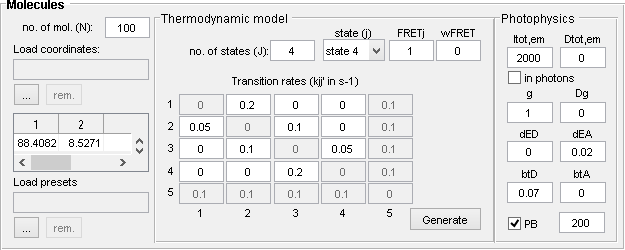
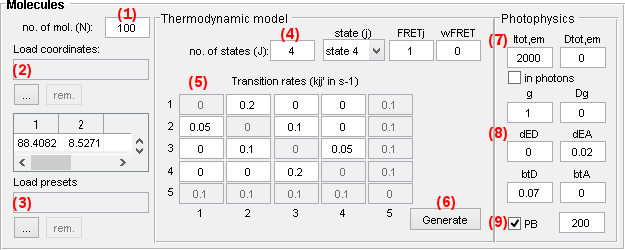
Update simulation panel molecules

diff --git a/docs/simulation/panels/panel-molecules.md b/docs/simulation/panels/panel-molecules.md
@@ -9,20 +9,38 @@ nav_order: 3
 # Molecules
 {: .no_toc }
 
-## Panel components
-{: .no_toc .text-delta }
+<a href="../../assets/images/sim-panel-molecules.png"><img src="../../assets/images/sim-panel-molecules.png" style="max-width:625px;" /></a>
 
-1. TOC
-{:toc}
+## (1) number of molecules (*N*)
 
-## Number of molecules (*N*)
 
-## Molecule coordinates
+
+## (2) Molecule coordinates
+
+<a href="../../assets/images/sim-panel-molecules-coordinates.png"><img src="../../assets/images/sim-panel-molecules-coordinates.png"  style="max-width:136px;" /></a>
 
 By default, molecule coordinates are generated randomly.
 
-## Pre-set parameters
+## (3) Pre-set parameters
 
-## Thermodynamic model
+<a href="../../assets/images/sim-panel-molecules-preset.png"><img src="../../assets/images/sim-panel-molecules-preset.png"  style="max-width:136px;" /></a>
 
-## Photophysics
+## (4) State configuration
+
+<a href="../../assets/images/sim-panel-molecules-state-configuration.png"><img src="../../assets/images/sim-panel-molecules-state-configuration.png"  style="max-width:291px;" /></a>
+
+## (5) Transition rates
+
+## (6) Generate data
+
+## (7) Donor emission
+
+<a href="../../assets/images/sim-panel-molecules-intensity.png"><img src="../../assets/images/sim-panel-molecules-intensity.png"  style="max-width:99px;" /></a>
+
+## (8) Cross-talks
+
+<a href="../../assets/images/sim-panel-molecules-crosstalks.png"><img src="../../assets/images/sim-panel-molecules-crosstalks.png"  style="max-width:99px;" /></a>
+
+## (9) Photobleaching
+
+<a href="../../assets/images/sim-panel-molecules-photobleaching.png"><img src="../../assets/images/sim-panel-molecules-photobleaching.png"  style="max-width:100px;" /></a>
